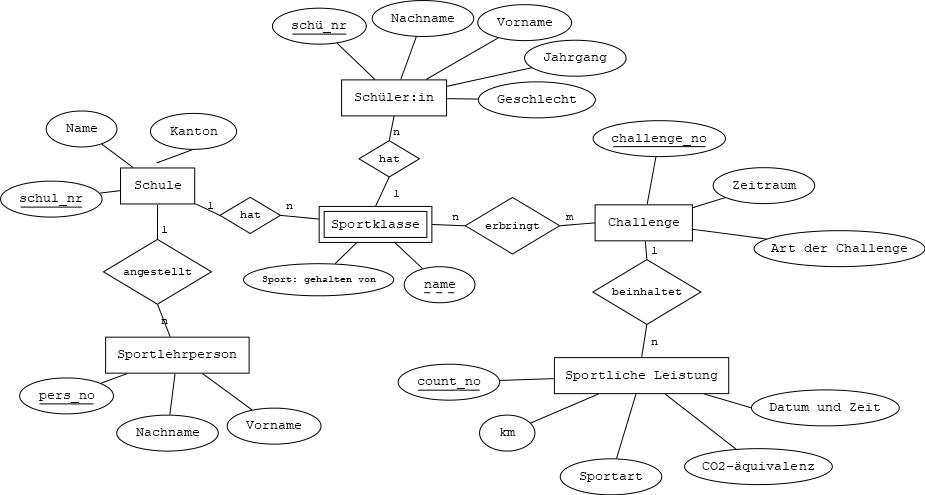
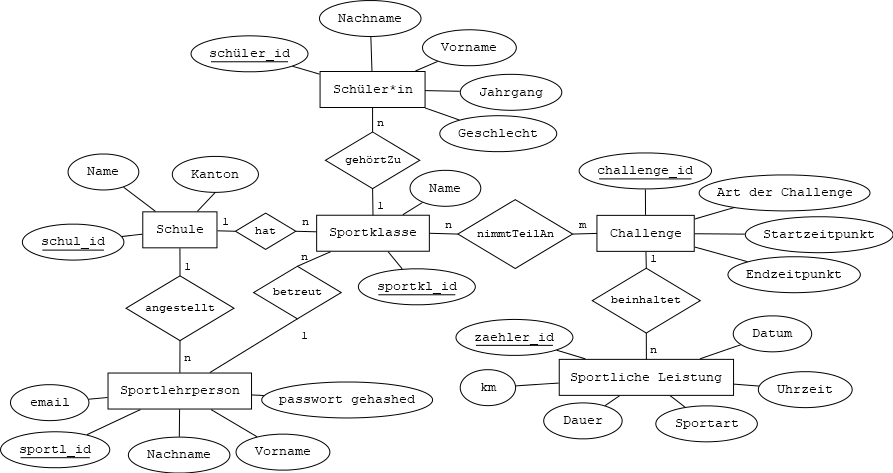
er diagramm changed and route for changePassword

diff --git a/project-folder/backend/controllers/authController.js b/project-folder/backend/controllers/authController.js
@@ -63,6 +63,14 @@ const loginUser = async (req, res) => {
       return res.status(400).json({ message: "Incorrect password" });
     }
 
+    // Check if user needs to change initial password
+    if (user.rows[0].needs_password_change) {
+      return res.status(200).json({
+        message: "Initial password needs to be changed",
+        needsPasswordChange: true,
+      });
+    }
+
     // Generate a JWT token
     const token = jwt.sign({ id: user.rows[0].id }, process.env.JWT_SECRET, {
       expiresIn: "1h",
@@ -72,6 +80,26 @@ const loginUser = async (req, res) => {
     res.status(200).json({ token });
   } catch (error) {
     console.error("Error logging in:", error);
+    res.status(500).json({ message: "Internal server error" });
+  }
+};
+
+// changePassword if needed and remove the needs_password_change flag
+
+const changePassword = async (req, res) => {
+  const { email, newPassword } = req.body;
+
+  try {
+    // Hash the new password
+    const hashedPassword = await bcrypt.hash(newPassword, 10);
+    // Update the users password and reset the needs_password_change flag
+    await pool.query(queries.updatePasswordAndRemoveFlag, [
+      hashedPassword,
+      email,
+    ]);
+    res.status(200).json({ message: "Password changed successfully" });
+  } catch (error) {
+    console.error("Error changing password:", error);
     res.status(500).json({ message: "Internal server error" });
   }
 };
@@ -174,6 +202,7 @@ const resetPassword = async (req, res) => {
 module.exports = {
   // registerUser,
   loginUser,
+  changePassword,
   logoutUser,
   forgotPassword,
   resetPassword,

diff --git a/project-folder/backend/db/queries.js b/project-folder/backend/db/queries.js
@@ -1,8 +1,11 @@
 const registerUser =
   "INSERT INTO sportlehrperson (name, vorname, email, password, school) VALUES ($1, $2, $3, $4, $5) RETURNING *";
 const getUserByEmail = "SELECT * FROM sportlehrperson WHERE email = $1";
+const updatePasswordAndRemoveFlag =
+  "UPDATE sportlehrperson SET hashedPassword = $1, needs_password_change = false WHERE email = $2";
 
 module.exports = {
   registerUser,
   getUserByEmail,
+  updatePasswordAndRemoveFlag,
 };

diff --git a/project-folder/backend/routes/authRoutes.js b/project-folder/backend/routes/authRoutes.js
@@ -1,7 +1,12 @@
 const express = require("express");
 const router = express.Router();
-const { registerUser, loginUser } = require("../controllers/authController");
+const {
+  registerUser,
+  loginUser,
+  changePassword,
+} = require("../controllers/authController");
 
 //router.post("/register", registerUser);
 router.post("/login", loginUser);
+router.patch("/changePassword", changePassword);
 module.exports = router;
